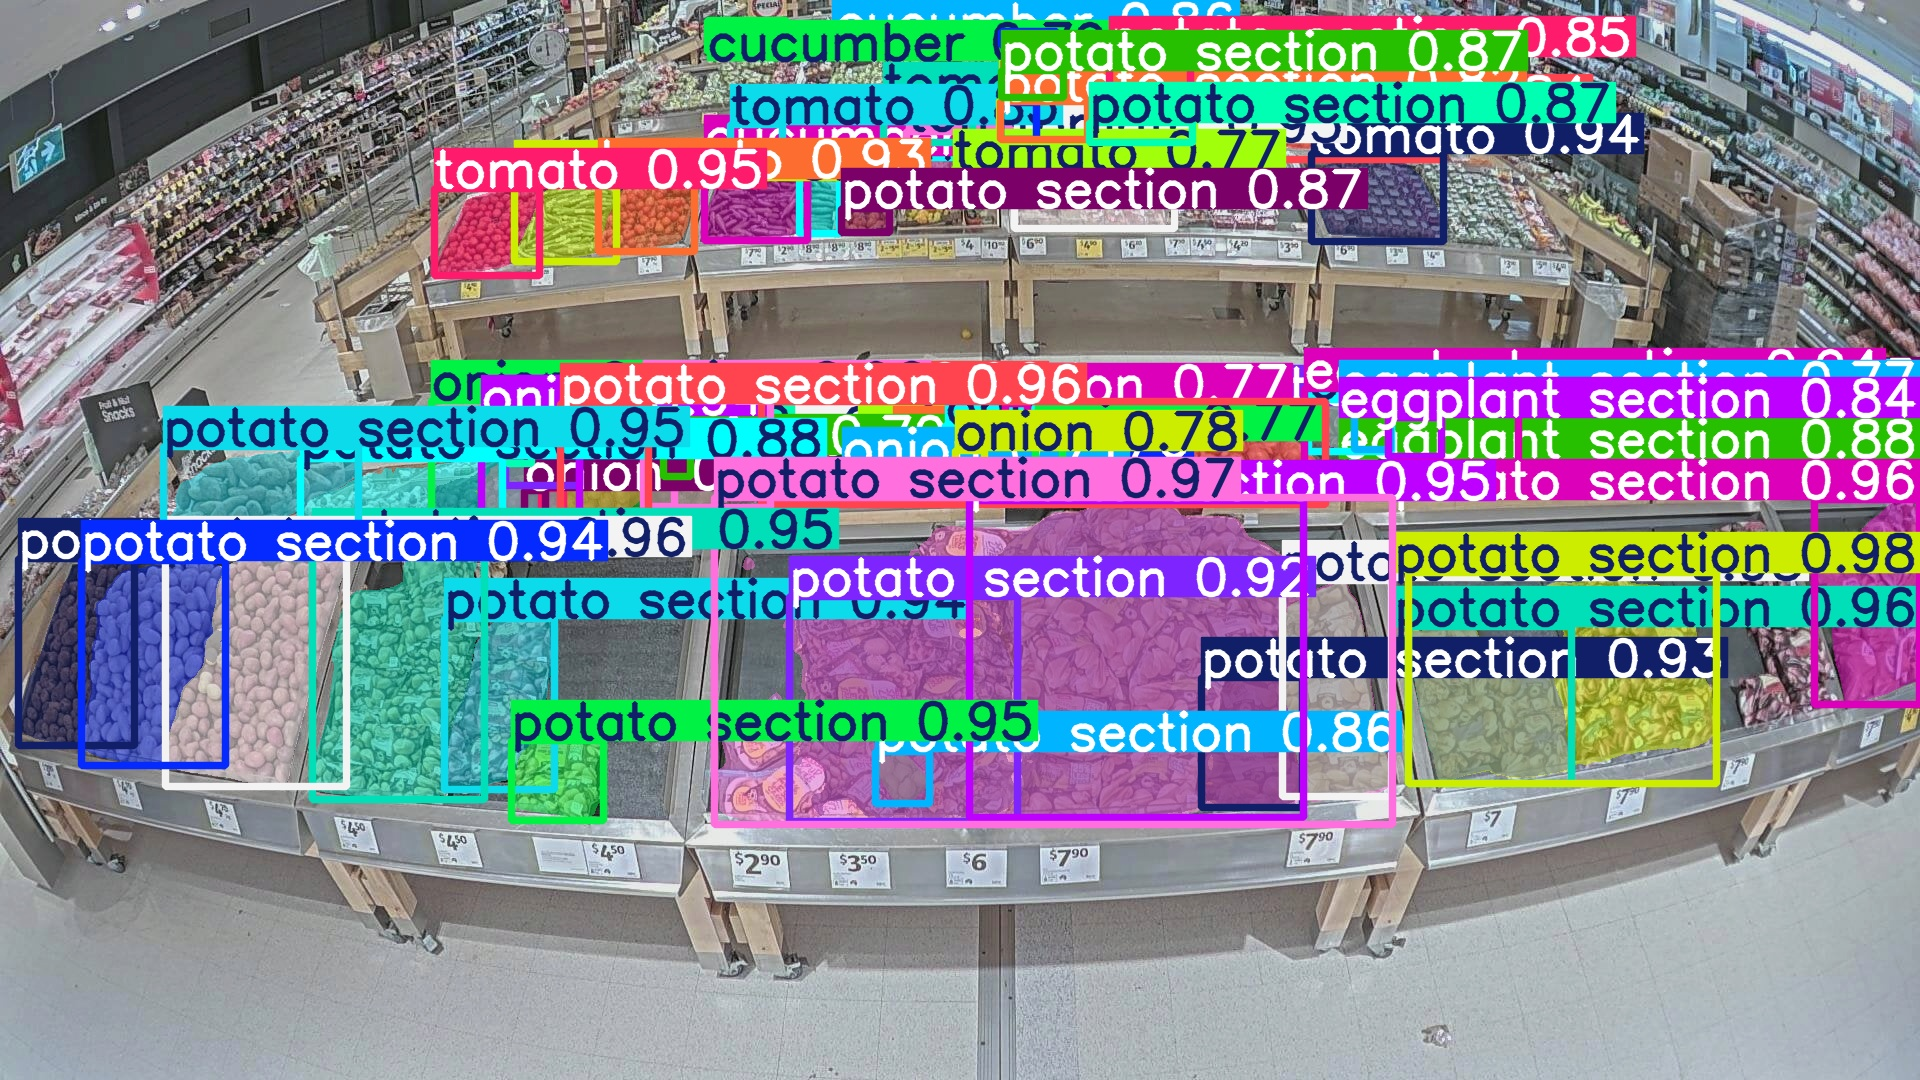
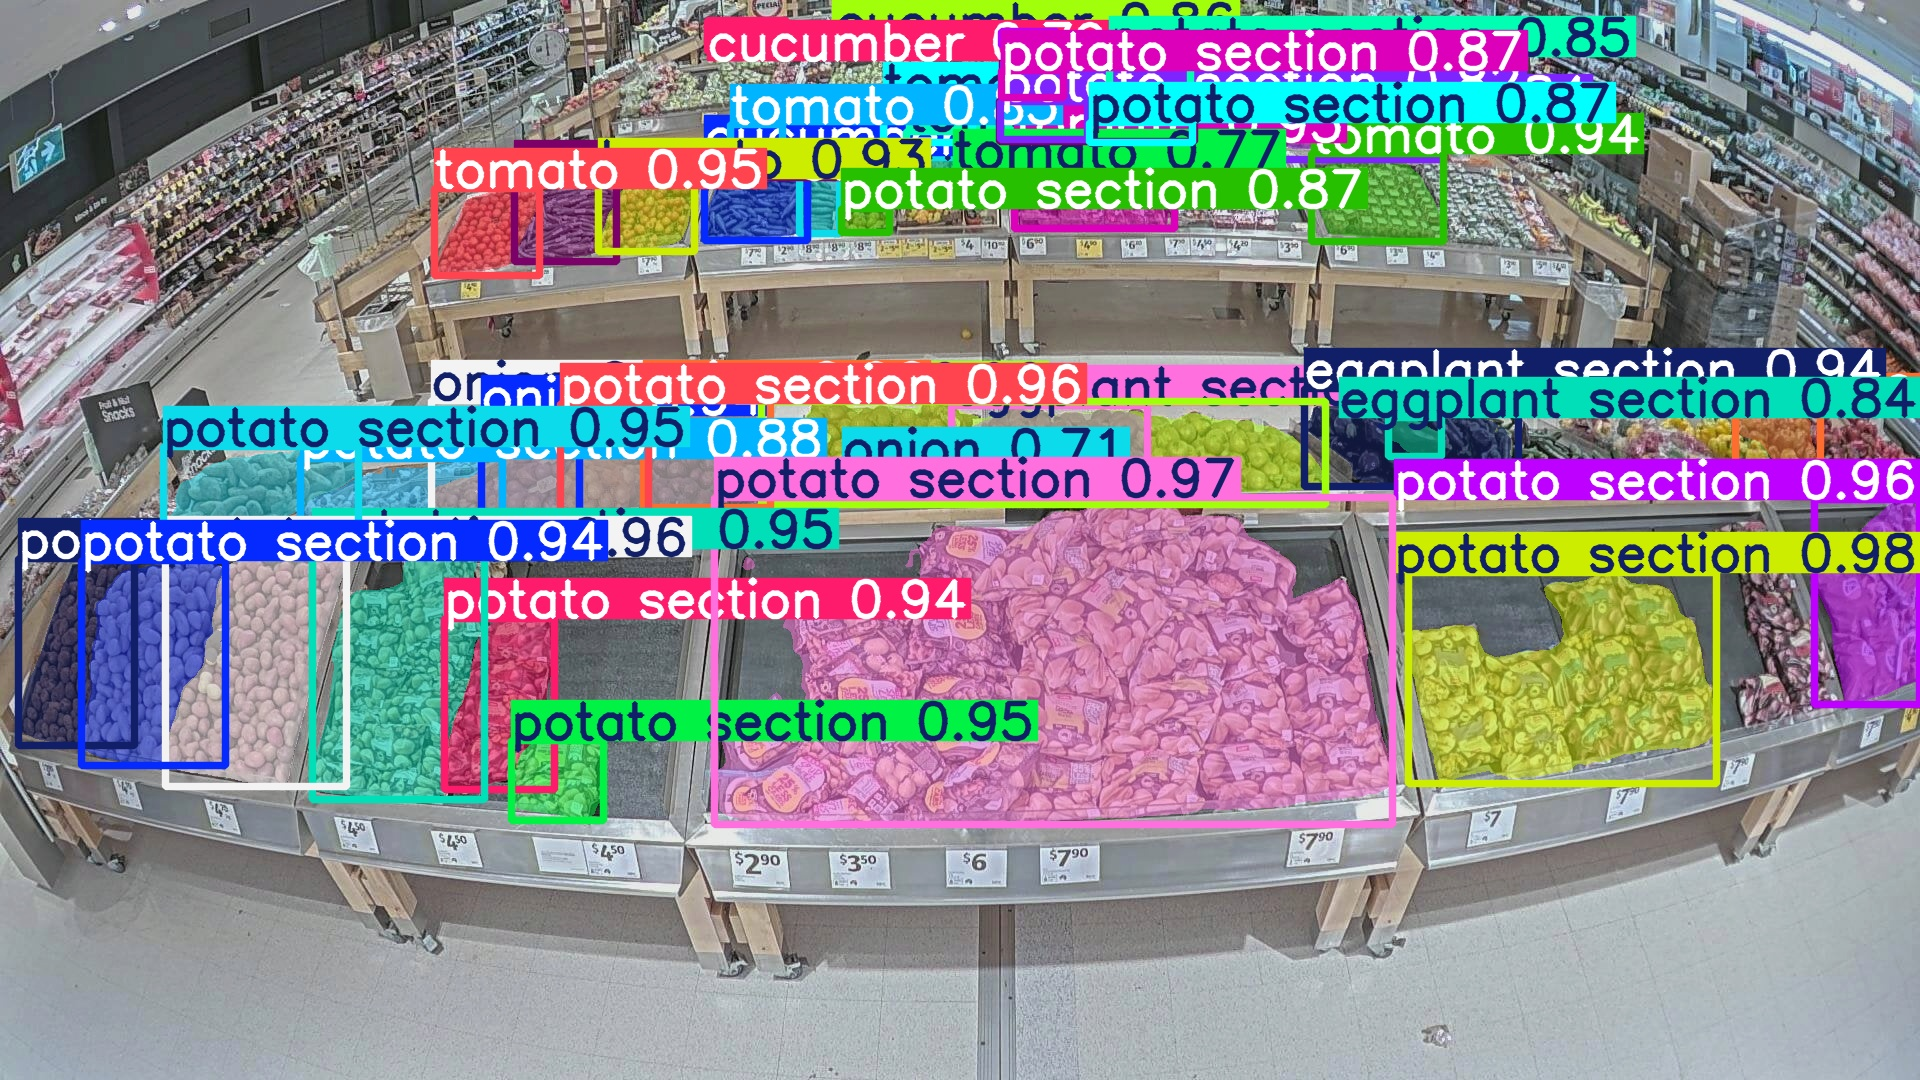
complete pipeline

Changed region(s): [[0.1562, 0.3056, 1.0, 0.7639], [0.2188, 0.0, 0.875, 0.275]]

diff --git a/backend/stock_estimation_depth.py b/backend/stock_estimation_depth.py
@@ -1,5 +1,5 @@
 from backend.imports import *
-
+CLASSES = ["potato section", "onion", "eggplant section", "tomato", "cucumber"]
 class DepthModel:
     def __init__(self, model_type="DPT_Hybrid"):
         self.device = "cuda" if torch.cuda.is_available() else "cpu"
@@ -36,7 +36,33 @@ class DepthModel:
         if normalize:
             depth = (depth - depth.min()) / (depth.max() - depth.min())
 
-        return depth    
+        return depth
+
+    def check_has_stock(self,mask, depth_map, bbox, min_diff=0.01, min_obj_pixels=200):
+        x1, y1, x2, y2 = map(int, bbox)
+        submask = mask[y1:y2, x1:x2]
+        subdepth = depth_map[y1:y2, x1:x2]
+
+        obj_depths = subdepth[submask > 0]
+        bg_depths = subdepth[submask == 0]
+
+        # Nếu không có object → empty
+        if obj_depths.size == 0:
+            return False, None, None
+
+        depth_obj = np.median(obj_depths)
+
+        # Nếu không có background (mask full object) → coi như có stock
+        if bg_depths.size == 0:
+            return True, depth_obj, None
+
+        depth_bg = np.median(bg_depths)
+        diff = abs(depth_bg - depth_obj)
+        # Avoid empty box due object pixel overlap background pixel
+        if diff < min_diff and obj_depths.size > min_obj_pixels:
+            return True, depth_obj, depth_bg
+
+        return diff >= min_diff, depth_obj, depth_bg
     def extract_masks(self, results):
         out = []
         names = results[0].names
@@ -53,3 +79,97 @@ class DepthModel:
             mask = mask_tensor.cpu().numpy().astype(np.uint8)
             box = boxes[i]
             out.append((class_name, box, mask))
+        return out
+
+    def estimate_fullness(self, mask, depth_map, bbox, min_pixels=50):
+
+        # Tính fullness theo pixel ratio, tạm thời layers chỉ 0/1.
+
+        x1, y1, x2, y2 = map(int, bbox)
+        submask = mask[y1:y2, x1:x2]
+
+        mask_pixels = submask.sum()
+        bbox_area = submask.size
+
+        if mask_pixels < min_pixels:
+            return 0.0, 0
+
+        fullness_pct = (mask_pixels / bbox_area) * 100
+
+        # Layers chỉ: 0 (empty) hoặc 1 (non-empty)
+        layers = 1 if fullness_pct > 1 else 0
+
+        return fullness_pct, layers
+
+    def compute_stock(self, results_seg,img_path):
+        items = self.extract_masks(results_seg)
+        depth_map = self.get_depth(img_path)
+        stock_dict = {}
+
+        for cls, box, mask in items:
+            has_stock, d_obj, d_bg = self.check_has_stock(mask, depth_map, box)
+            if not has_stock:
+                val = (0.0, 0)
+            else:
+                fullness, layers = self.estimate_fullness(mask, depth_map, box)
+                val = (float(fullness), int(layers))
+
+            stock_dict.setdefault(cls, []).append(val)
+
+        return stock_dict
+
+    def visualize_stock(self,img_path, results_seg, stock_dict, save_path="stock_overlay.jpg"):
+        img = cv2.imread(img_path)
+        boxes = results_seg[0].boxes.xyxy.cpu().numpy().tolist()
+        classes = [results_seg[0].names[int(c)] for c in results_seg[0].boxes.cls]
+
+        color_map = {
+            "potato section": (0, 255, 0),
+            "onion": (255, 0, 0),
+            "eggplant section": (128, 0, 128),
+            "tomato": (0, 165, 255),
+            "cucumber": (255, 255, 0)
+        }
+
+        idx_map = {cls: 0 for cls in stock_dict.keys()}
+        for i, (x1, y1, x2, y2) in enumerate(boxes):
+            cls = classes[i]
+            if cls not in stock_dict:
+                continue
+
+            # lấy kết quả fullness/layers theo index object
+            if idx_map[cls] < len(stock_dict[cls]):
+                fullness, layers = stock_dict[cls][idx_map[cls]]
+                idx_map[cls] += 1
+            else:
+                fullness, layers = (0.0, 0)
+
+            # text hiển thị
+            label = f"{cls}: {fullness:.1f}% | L{layers}"
+
+            # vẽ bbox
+            c = color_map.get(cls, (0, 255, 0))
+            cv2.rectangle(img, (int(x1), int(y1)), (int(x2), int(y2)), c, 2)
+
+            # vẽ label
+            (tw, th), _ = cv2.getTextSize(label, cv2.FONT_HERSHEY_SIMPLEX, 0.7, 2)
+            cv2.rectangle(img, (int(x1), int(y1) - th - 4), (int(x1) + tw + 4, int(y1)), c, -1)
+            cv2.putText(img, label, (int(x1) + 2, int(y1) - 2),
+                        cv2.FONT_HERSHEY_SIMPLEX, 0.7, (255, 255, 255), 2)
+
+        cv2.imwrite(save_path, img)
+        return img
+    def print_result(self,stock_dict):
+        print("\nStock estimation results (depth-based):")
+        for cls, values in stock_dict.items():
+            for fullness, layers in values:
+                print(f"{cls}: {fullness:.1f}% ")
+
+    def cal_probs(self , stock_dict):
+        prob_dic = {}
+        for cls, values in stock_dict.items():
+            total = 0
+            for fullness, layers in values:
+                total += fullness
+            prob_dic[cls] = total / len(values)
+        return prob_dic

diff --git a/main.py b/main.py
@@ -9,31 +9,28 @@ image_path = "../Captone_AI/dataset/test_image.jpg"
 class_names = 'potato section . onion . eggplant section . tomato . cucumber .'
 
 if __name__ == "__main__":
+    #Initualize and load model
     detection_model = DetectionModel()
     segmentation_model = SegmentationModel("sam2.1_l.pt")
+    depth_model = DepthModel()
     #gemini_model = Gemini()
 
     detection_model.load_model()
     segmentation_model.load()
+    depth_model.load()
 
     # Detection
     xyxy, labels, scores = detection_model.detect(image, class_names)
 
-    # #Segmentation
-    # results_seg = segmentation_model.segment(image_path, xyxy, labels)
-    # masks_dict = extract_masks(results_seg)
-    # #: Depth estimation
-    # device = "cuda" if torch.cuda.is_available() else "cpu"
-    # depth_model, depth_tf = load_midas("DPT_Hybrid", device)
-    # depth_map = get_depth_map(image_path, depth_model, depth_tf, device)
-    #
-    # # Compute fullness (depth-based)
-    # stock_dict = compute_stock(results_seg, depth_map)
-    #
-    # print("\nStock estimation results (depth-based):")
-    # for cls, values in stock_dict.items():
-    #     for fullness, layers in values:
-    #         print(f"{cls}: {fullness:.1f}% ")
-    #
-    # # Visualize
-    # visualize_stock(image_path, results_seg, stock_dict, save_path="depth_estimation_overlay.jpg")
+    #Segmentation
+    results_seg = segmentation_model.segment(image_path, xyxy, labels)
+
+    # Compute fullness (depth-based)
+    stock_dict = depth_model.compute_stock(results_seg,image_path)
+
+    # Visualize
+    depth_model.visualize_stock(image_path, results_seg, stock_dict, save_path="depth_estimation_overlay.jpg")
+
+    #Calculate probs
+    probs = depth_model.cal_probs(stock_dict)
+    print(probs)

diff --git a/backend/detection_model.py b/backend/detection_model.py
@@ -81,9 +81,7 @@ class DetectionModel:
 
         keep = []
         while idxs.size > 0:
-
             i = idxs[0]
-            print(i)
             keep.append(i)
             if idxs.size == 1:
                 break
@@ -103,14 +101,14 @@ class DetectionModel:
                 area_j = (xyxy[j][2] - xyxy[j][0]) * (xyxy[j][3] - xyxy[j][1])
                 if area_j > 0 and inter_area / area_j > contain_thr:
                     contain.append(j)
-        #Step 1 + 2 combined           
-        mask = (ious <= iou_thr)
-        idxs = rest[mask & (~np.isin(rest, contain))]
+            #Step 1 + 2 combined
+            mask = (ious <= iou_thr)
+            idxs = rest[mask & (~np.isin(rest, contain))]
 
         return sorted(keep)
 
 
-    def detect(self, image, class_name,score_thr=0.2, max_per_class=20):
+    def detect(self, image, class_name,score_thr=0, max_per_class=20):
         results_dec = self.detect_fruits(image, class_name)
         dic_ind = {"potato section": [], "onion": [], "eggplant section": [], "tomato": [], 'cucumber': []}
 
@@ -130,10 +128,7 @@ class DetectionModel:
                 labels.append(fruit)
                 scores.append(float(results_dec[0]['scores'][i]))
 
-        print("Doing clear")
         keep = self.nms_class_agnostic(xyxy, scores, labels, iou_thr=0.5)
-        print("Clean done")
-
 
         xyxy_final = [xyxy[i] for i in keep]
         labels_final = [labels[i] for i in keep]
